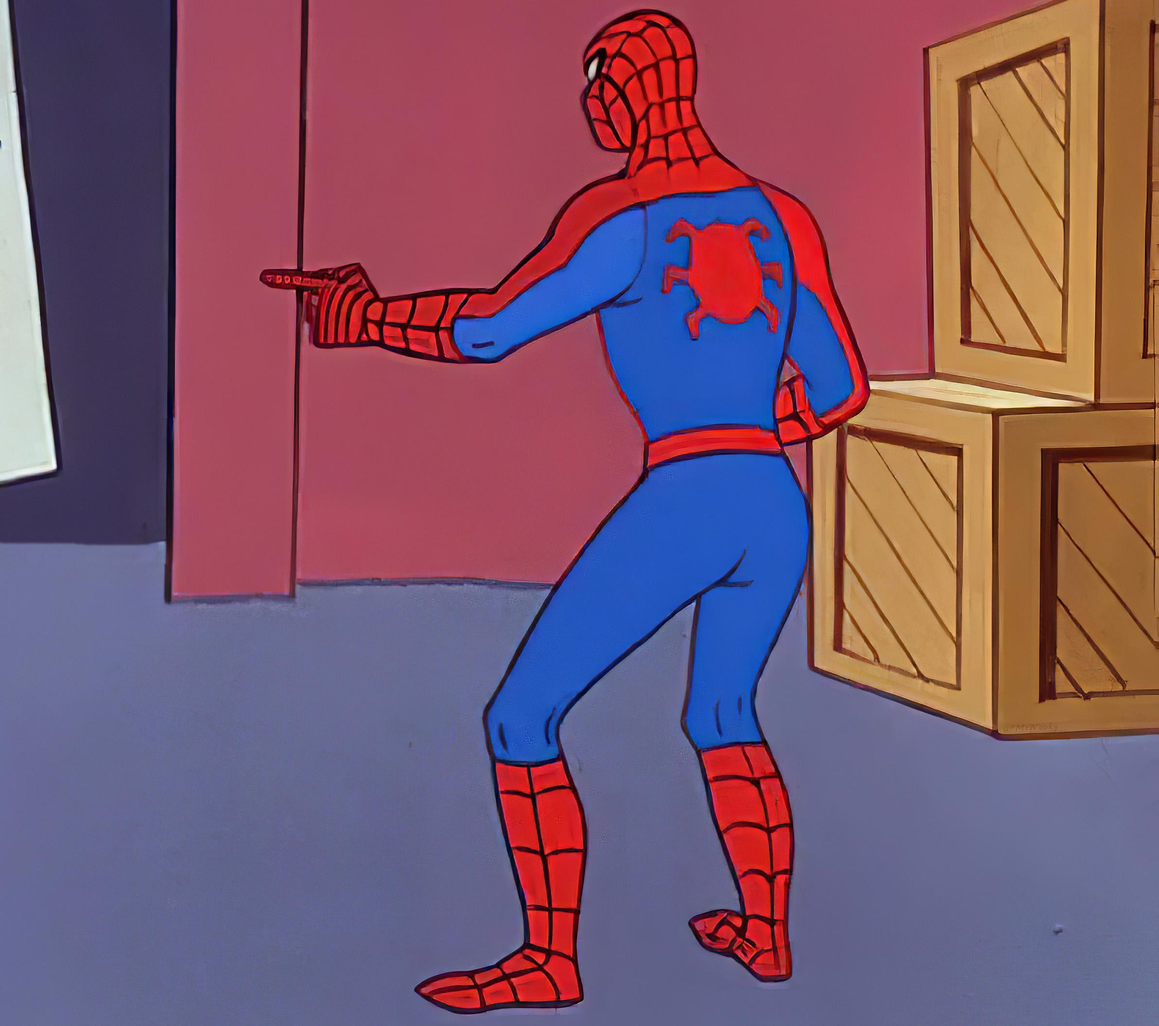
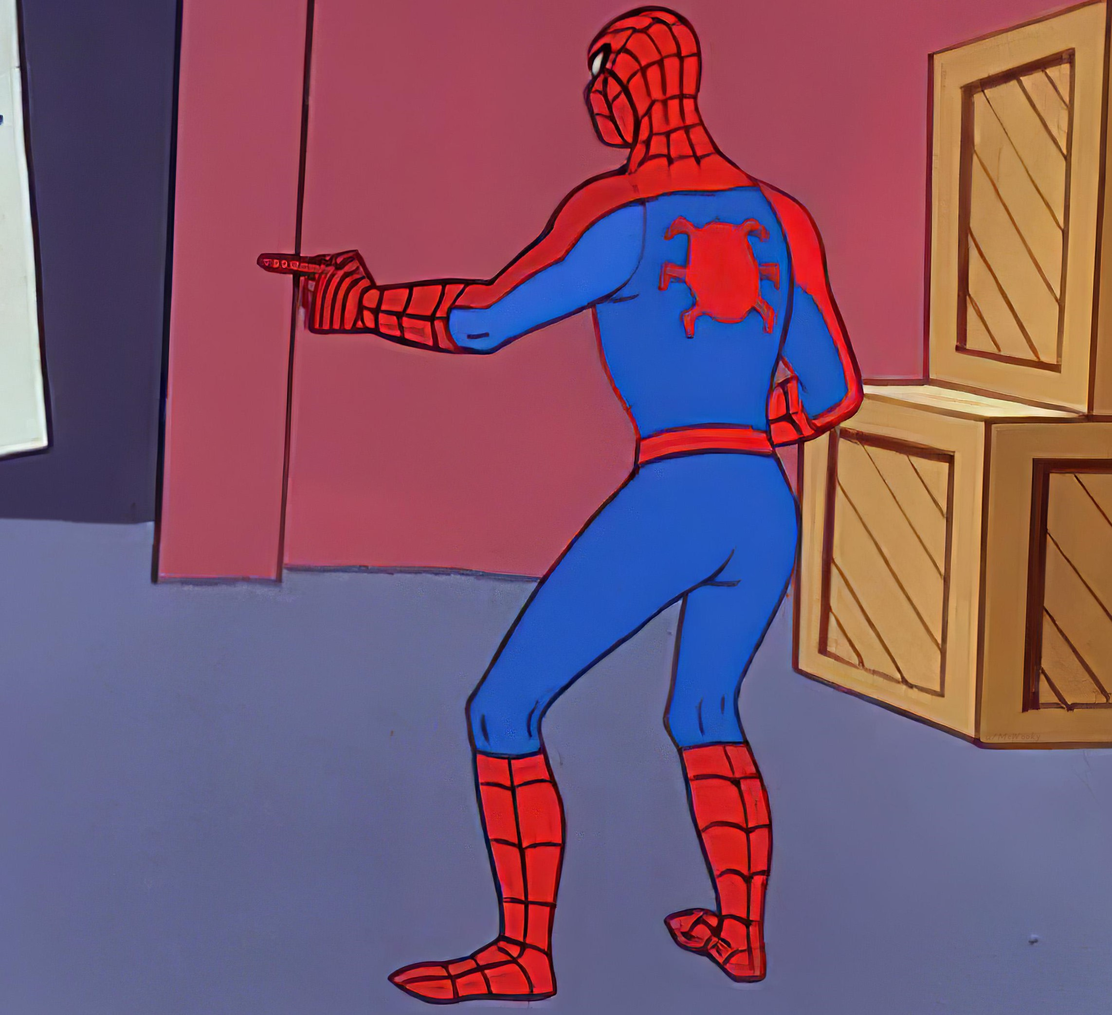
sdfasdfasdf

diff --git a/README.md b/README.md
@@ -1,1 +1,1 @@
-<img src="./nhen.jpg">
+<img src="./nhen.jpg" style="max-height:400px">
